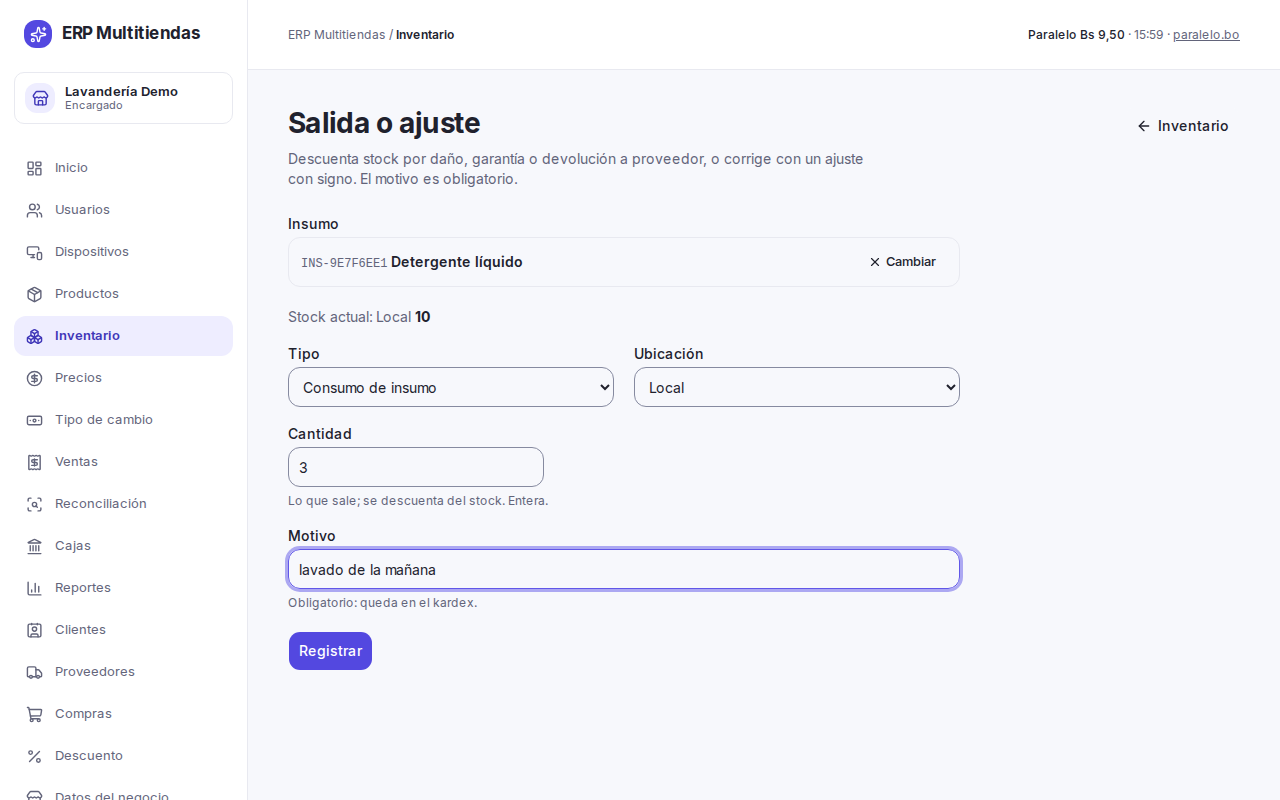
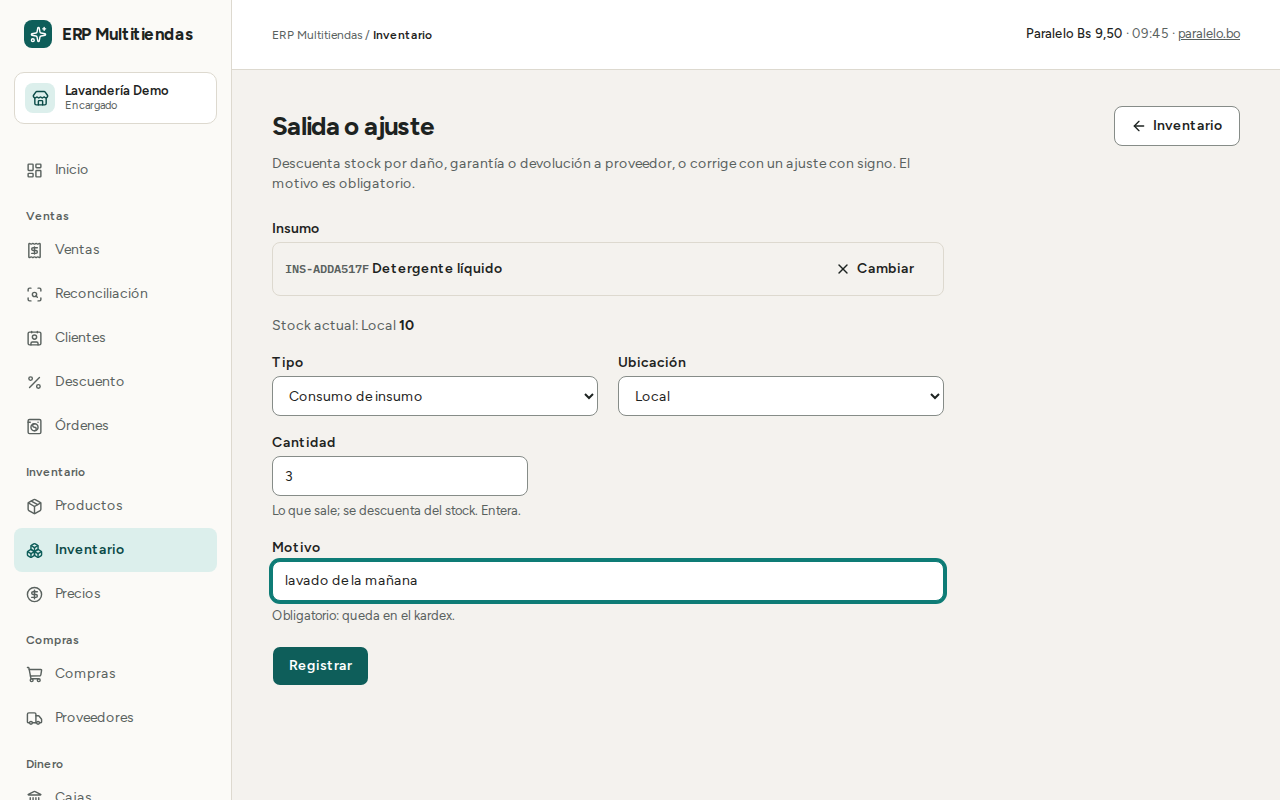
docs(manual): el manual describe el tablero y el menú por grupos, con capturas nuevas (R5)
El Inicio ya no es una lista de accesos: el manual de encargado y dueño lo
explica bloque por bloque (acciones, ventas de hoy, por atender, cajas abiertas,
créditos y pagos, stock bajo, más vendidos, lotes por vencer y órdenes listas) y
suma el menú lateral por grupos; el del contador y la guía de capacitación se
ajustan a lo mismo. Las 25 capturas se regeneraron con la interfaz nueva contra
la base local del seed y se agrega la del tablero de la lavandería. El script de
capturas usa ventanas más altas donde el contenido salía cortado. La regla del
aviso de ventas por revisar en decisiones-manual.md se actualiza: el detalle ya
no trae vendedor y motivo.

diff --git a/web/tests/manual/capturas.spec.ts b/web/tests/manual/capturas.spec.ts
@@ -34,6 +34,15 @@ const foto = async (page: Page, nombre: string) => {
   await page.waitForTimeout(400); // deja terminar transiciones y que se oculte algún aviso
   await page.screenshot({ path: `${IMG}/${nombre}.png`, fullPage: false });
 };
+// El tablero del Inicio es largo: ventana alta para verlo entero (el menú lateral mide el alto de la ventana) y con
+// las cargas ya resueltas.
+async function fotoTablero(page: Page, nombre: string) {
+  await page.setViewportSize({ width: 1280, height: 1250 });
+  await ir(page, "/panel");
+  await expect(page.getByRole("heading", { name: "Por atender" })).toBeVisible();
+  await expect(page.locator(".animate-pulse")).toHaveCount(0); // ningún bloque a medio cargar
+  await foto(page, nombre);
+}
 
 test.describe.configure({ mode: "serial" });
 test.beforeEach(async ({ page }) => {
@@ -291,7 +300,7 @@ test.describe("crédito y cuotas (encargado de tienda)", () => {
     });
   });
 
-  test("pos-credito y pos-cobro-cuota", async ({ page }) => {
+  test("pos-credito, pos-cobro-cuota y panel-inicio", async ({ page }) => {
     const tablet = await crearProductoConPrecio({
       contado: 50,
       credito: 60,
@@ -310,7 +319,10 @@ test.describe("crédito y cuotas (encargado de tienda)", () => {
     await page.getByLabel("Cédula de identidad").check();
     await page.getByLabel("Pagaré firmado").check();
     await expect(page.getByLabel("Plan de cuotas")).toContainText("Cuota 1:");
+    // Ventana alta: el plan de cuotas queda debajo de los documentos y no debe salir cortado.
+    await page.setViewportSize({ width: 1280, height: 1000 });
     await foto(page, "pos-credito");
+    await page.setViewportSize({ width: 1280, height: 800 });
 
     await abrirCobro(page);
     await page
@@ -333,6 +345,8 @@ test.describe("crédito y cuotas (encargado de tienda)", () => {
       .getByRole("button", { name: "Confirmar cobro" })
       .click();
     await expect(page.getByRole("status").filter({ hasText: "Cuota cobrada" })).toBeVisible();
+    // Inicio del panel con la caja C2 abierta, la venta sin conexión por revisar y la reserva del POS.
+    await fotoTablero(page, "panel-inicio");
   });
 });
 
@@ -351,7 +365,7 @@ test.describe("lavandería (encargado)", () => {
     for (const id of creadas) await anularOrdenApi(id);
   });
 
-  test("lav-nueva-orden y lav-ordenes", async ({ page }) => {
+  test("lav-nueva-orden, lav-ordenes y panel-inicio-lavanderia", async ({ page, context }) => {
     await fijarEquipoL1(page, equipoId);
     await page.goto("/pos");
     await page.getByLabel("Efectivo inicial (Bs)").fill("100");
@@ -388,6 +402,15 @@ test.describe("lavandería (encargado)", () => {
     await primera.getByRole("button", { name: /^Pasar a En lavado/ }).click();
     await expect(primera).toContainText("En lavado");
     await foto(page, "lav-ordenes");
+
+    // Una orden lista para recoger, para que el tablero de la lavandería muestre algo.
+    for (const estado of ["en_lavado", "lista"])
+      await apiComo("encargadoLavanderia", "rpc/cambiar_estado_orden", {
+        metodo: "POST",
+        cuerpo: { p_orden_id: creadas[0], p_estado: estado },
+      });
+    await elegirNegocio(context, NEGOCIOS.lavanderia.id);
+    await fotoTablero(page, "panel-inicio-lavanderia");
   });
 });
 
@@ -437,11 +460,6 @@ test.describe("panel (dueño)", () => {
   test.use({ storageState: rutaAuth("dueno") });
   test.beforeEach(async ({ context }) => {
     await elegirNegocio(context, NEGOCIOS.tienda.id);
-  });
-
-  test("panel-inicio", async ({ page }) => {
-    await ir(page, "/panel");
-    await foto(page, "panel-inicio");
   });
 
   test("panel-precios", async ({ page }) => {
@@ -519,6 +537,7 @@ test.describe("panel (dueño)", () => {
   });
 
   test("panel-usuarios", async ({ page }) => {
+    await page.setViewportSize({ width: 1280, height: 1000 }); // que se vea también "Cuenta nueva" completa
     await ir(page, "/panel/usuarios");
     await foto(page, "panel-usuarios");
   });

diff --git a/docs/manual/encargado-y-dueno.md b/docs/manual/encargado-y-dueno.md
@@ -35,13 +35,61 @@ Para salir, pulsar "Cerrar sesión". Hace falta conexión a internet. Al lado es
 
 ## 3. Inicio
 
-El Inicio muestra el nombre del negocio, su rol y un acceso a cada pantalla que usted puede usar. Si no ve una pantalla, es
-porque su rol no tiene el permiso.
+El Inicio es un tablero: muestra de un vistazo cómo va el día del negocio y qué falta atender. Arriba están la fecha de hoy,
+el nombre del negocio y su rol. Cada persona ve solo los bloques que su rol puede usar (ver "Qué ve cada persona", abajo).
 
-![Inicio del panel con los accesos del negocio](img/panel-inicio.png)
+![Inicio del panel de la tienda con el tablero](img/panel-inicio.png)
 
-Quien puede ver reportes (dueño, encargado y contador) ve en el Inicio un aviso como "3 ventas por revisar" o "1 movimiento de caja por
-revisar". Pulsarlo lleva a "Reconciliación" (sección 10).
+Los bloques, de arriba hacia abajo:
+
+- **Acciones frecuentes.** Botones para lo que más se hace: "Abrir punto de venta", "Nueva compra", "Entrada de inventario" y
+  "Ver reportes". Cada uno aparece solo si su rol puede hacer eso.
+- **"Ventas de hoy".** El total vendido hoy, "Ayer, día completo" para comparar, la cantidad de ventas y un gráfico de los
+  últimos 7 días (el día de hoy es la barra marcada "Hoy"). "Utilidad de hoy" aparece solo para quien ve costos, y solo si el
+  sistema conoce el costo de lo vendido. "Ver ventas" lleva a "Ventas".
+- **"Por atender".** Lo que espera una decisión suya. Cada aviso tiene una línea de detalle y un botón que lleva a resolverlo:
+  - "N ventas por revisar" o "N movimientos de caja por revisar" (botones "Reconciliar" y "Revisar"; ver "Reconciliación",
+    sección 10);
+  - "N lotes vencen en 7 días o menos" en el frial (botón "Ver lotes"; ver "Vencimientos", sección 7);
+  - "N órdenes sin recoger" en la lavandería, las listas hace más de 30 días (botón "Ver órdenes").
+
+  Si hay más de uno del mismo tipo, la línea de detalle muestra el primero y agrega "y N más".
+
+  Si no hay nada, dice "Nada por atender". Si el sistema no puede comprobar algo, lo dice ("No se pudo comprobar…") y el
+  botón "Abrir" lleva a esa pantalla para mirarlo ahí. Cuando hay algo por atender, el bloque se ve en color ámbar.
+- **"Cajas abiertas".** Las cajas que están abiertas ahora: "Equipo", "Cajero", "Desde" (la hora de apertura) y "Cobrado en
+  ventas". Si no hay ninguna, dice "No hay cajas abiertas ahora." "Ver cajas" lleva a "Cajas".
+- **"Créditos y pagos".** "Cuotas vencidas" (cuántos créditos y clientes, y cuánto suman; el monto sale en rojo),
+  "Reservas activas" (cuántas, con el total de anticipos) y "Por pagar a proveedores" (cuánto se debe y a cuántos proveedores).
+  Cada línea dice "Sin cuotas vencidas", "Sin reservas activas" o "Sin deudas con proveedores" cuando no hay nada. En la lavandería no hay créditos ni reservas: el bloque
+  se llama "Pagos a proveedores".
+- **"Stock bajo".** Los productos que tienen menos que su mínimo: "Producto", "Hay" y "Mínimo". Si ninguno lo está, dice
+  "Ningún producto está bajo su mínimo."
+- **"Más vendidos de la semana".** Los 5 productos que más se vendieron en los últimos 7 días. Si no hubo ventas, dice "Sin ventas
+  en los últimos 7 días." No aparece en la lavandería.
+- **"Lotes por vencer"** (solo el frial). Los lotes que vencen en los próximos 7 días, con su producto y su fecha. Un lote ya
+  vencido sale en rojo.
+- **"Órdenes listas"** (solo la lavandería). "Listas para recoger" (ropa terminada que el cliente aún no retira) y "Sin
+  recoger hace más de 30 días" ("Conviene avisar al cliente"; si hay alguna, el número sale en rojo).
+
+![Inicio del panel de la lavandería: órdenes listas, cajas abiertas y pagos a proveedores](img/panel-inicio-lavanderia.png)
+
+Un bloque que no puede cargarse muestra su propio aviso de error y no impide ver los demás.
+
+### El menú lateral
+
+A la izquierda están las pantallas, en cinco grupos. "Inicio" va suelto, arriba de todos. Si no ve una pantalla, es porque su
+rol no tiene el permiso. En el celular el menú se abre con el botón de menú (tres rayas).
+
+| Grupo | Pantallas |
+|---|---|
+| Ventas | "Ventas", "Reconciliación", "Clientes", "Descuento" y, en lavandería, "Órdenes" |
+| Inventario | "Productos", "Inventario", "Precios" |
+| Compras | "Compras", "Proveedores" |
+| Dinero | "Cajas", "Créditos" (tienda y frial), "Tipo de cambio", "Reportes" |
+| Configuración | "Usuarios", "Dispositivos", "Datos del negocio" |
+
+Más abajo del menú están "Punto de venta", "Cambiar contraseña" y "Cerrar sesión".
 
 ### Qué ve cada persona
 
@@ -66,7 +114,7 @@ dueño. El vendedor y el empleado no entran al panel: trabajan en el punto de ve
 ## 4. Productos
 
 Para ver el catálogo: "Productos". Se busca escribiendo o escaneando un código de barras; la búsqueda no distingue tildes ("cafe" encuentra "café"). Los filtros son "Categoría", "Marca",
-"Sin precio" e "Incluir inactivos". "Quitar filtros" los limpia.
+"Sin precio" e "Incluir inactivos". "Quitar filtros" los limpia. Un producto sin precio en alguna lista lleva una etiqueta ámbar ("Sin precio").
 
 ### Crear un producto
 
@@ -75,7 +123,7 @@ Para ver el catálogo: "Productos". Se busca escribiendo o escaneando un código
    "Unidad" ("Unidad" o "Kilogramo").
 3. "Stock mínimo": cuando el stock baje de ese número, el producto sale en la lista de stock bajo. Si lo deja vacío, no avisa.
 4. "Garantía (meses)": número entero. Sale impresa en la nota de venta.
-5. Marcar "Controla número de serie" solo si cada unidad lleva su serie (por ejemplo, equipos).
+5. Marcar "Controla número de serie" solo si cada unidad lleva su serie (por ejemplo, equipos). Bajo ese campo, la pantalla explica: "Al vender, dar salida o trasladar, se elige el número de serie de cada unidad."
 6. En el frial, un producto por "Unidad" tiene el campo "Peso del paquete (kg)", para paquetes de peso fijo.
 7. Pulsar "Crear producto".
 
@@ -285,11 +333,11 @@ negativo y aparece en "Reconciliación" para que usted lo revise y lo corrija co
 "Estado" ("Completada" o "Anulada"), "Equipo", "Desde" y "Hasta". Entrar a una venta muestra su detalle: líneas, pagos y
 devoluciones.
 
-En la lista, una venta a crédito sale marcada "Crédito" y una venta que completó una reserva, "Reserva". En su detalle no hay
+En la lista, el estado de cada venta sale como una etiqueta de color ("Completada" en verde, "Anulada" en rojo). Una venta a crédito sale marcada "Crédito" y una venta que completó una reserva, "Reserva". En su detalle no hay
 "Anular venta" ni "Devolver": aparece una explicación (la inicial, las cuotas o el anticipo ya quedaron registrados) y, en
 las de crédito, el enlace "Ver pagos del crédito" (si su rol ve "Créditos").
 
-![Detalle de una venta con los botones Anular venta y Devolver](img/panel-venta-detalle.png)
+![Detalle de una venta ya cerrada: la pantalla explica que no se puede anular y que hay que usar una devolución](img/panel-venta-detalle.png)
 
 Quien vende en el punto de venta (vendedor o empleado) no anula ni devuelve, ni siquiera dentro de las primeras 24 horas. Si
 hace falta, lo hace usted o el encargado. Un cambio de esto exige crear un permiso aparte.
@@ -372,7 +420,7 @@ Cómo leerla:
   anulada sale del esperado.
 - "Contado" y "Diferencia" aparecen cuando el cajero cierra la caja. El cajero hace un arqueo ciego: no ve el esperado
   mientras la caja está abierta. En el panel, el esperado de una caja abierta es el de ese momento.
-- La diferencia sale como "Sin diferencia", "Sobrante" o "Faltante".
+- La diferencia sale como "Sin diferencia", "Sobrante" o "Faltante". En la lista de cajas, la diferencia sale en rojo si falta dinero y en ámbar si sobra.
 - Ver el esperado y el desglose exige poder ver reportes (dueño, encargado y contador).
 - Cerrar la caja es definitivo: no se edita.
 
@@ -720,7 +768,7 @@ lavandería que también trabajan en la tienda se asignan a ambos negocios; es u
 
 ### Datos del negocio
 
-"Datos del negocio" (en el Inicio y en el menú) guarda lo que sale impreso en la nota de venta y en la boleta de lavandería.
+"Datos del negocio" (en el menú, grupo "Configuración") guarda lo que sale impreso en la nota de venta y en la boleta de lavandería.
 Cada negocio tiene los suyos; mire cuál es el negocio activo antes de guardar.
 
 1. Escribir el "NIT" (hasta 20 caracteres, en una sola línea).

diff --git a/docs/capacitacion.md b/docs/capacitacion.md
@@ -131,6 +131,10 @@ cobrar, confirmar con el cliente.
 
 ## Encargado y dueño: panel
 
+El Inicio del panel es un tablero: "Ventas de hoy", "Por atender" (ventas y cajas por revisar, lotes por vencer, órdenes sin recoger),
+"Cajas abiertas", "Créditos y pagos", "Stock bajo" y "Más vendidos de la semana". Las pantallas están en el menú lateral, en cinco
+grupos: Ventas, Inventario, Compras, Dinero y Configuración ("Inicio" va suelto arriba). La tabla dice dónde está cada tarea.
+
 | Tarea | Dónde |
 |---|---|
 | Crear producto | "Productos", "Nuevo producto". Los precios van aparte |
@@ -147,7 +151,7 @@ cobrar, confirmar con el cliente.
 | Reportes | "Reportes": fechas, "Aplicar", "Descargar Excel". Costos y ganancia solo con permiso de costos |
 | Personal | "Usuarios": "Cuenta nueva" o "Agregar persona de otro negocio"; cambiar rol, "Desactivar", "Quitar", "Restablecer contraseña" por fila. A un encargado solo lo gestiona el dueño. Restablecer no cierra las sesiones abiertas |
 | Datos del negocio | "Datos del negocio" (dueño en tienda y frial): "NIT" y "Datos para la nota" (dirección, teléfono). Salen en la nota |
-| Cambiar la propia contraseña | "Cambiar contraseña" en la cabecera del panel o junto a "Cerrar sesión" en el punto de venta |
+| Cambiar la propia contraseña | "Cambiar contraseña", al pie del menú lateral del panel o junto a "Cerrar sesión" en el punto de venta |
 | Equipos de caja | "Dispositivos": nombre, prefijo (ej. C2) y ubicación |
 | Tope de descuento | "Descuento" |
 | Proveedores | "Proveedores": "Nuevo proveedor", editar, y "Registrar pago a …" (medio y "Monto en Bs"; no puede superar la deuda). El pago no pasa por la caja del POS: si sale del cajón, anotar además un gasto en la caja |

diff --git a/docs/decisiones-manual.md b/docs/decisiones-manual.md
@@ -352,7 +352,9 @@ de la preentrega (`PP`, `AUDP`): las reglas que cambiaron se corrigieron y las n
 - **Un QR confirmado en el mostrador (anticipo de reserva, cuota de crédito, venta en línea) no se puede marcar rechazado
   después;** solo el QR pendiente de una venta sin conexión tiene camino de rechazo. _Vigente / pendiente de decisión CTO_ ·
   H:28; PF-7:79, 106-107
-- **El Inicio del panel avisa "N ventas por revisar"** a quien las revisa, con vendedor y motivo. _Vigente_ · AUD:28, 88
+- **El Inicio del panel avisa "N ventas por revisar"** a quien las revisa, dentro del bloque "Por atender", con el
+  número y el total de la primera venta y un botón "Reconciliar". El vendedor y el motivo se ven en "Reconciliación".
+  _Vigente; cambió con el tablero del rediseño (2026-11-11): antes el aviso traía vendedor y motivo_ · AUD:28, 88
 - **Una venta sin motivos y sin QR pendiente no entra a revisión.** _Vigente_ · PF-3:57
 
 ## 8. Catálogo, precios y dólar

diff --git a/docs/manual/contador.md b/docs/manual/contador.md
@@ -21,7 +21,11 @@ conexión a internet).
 
 ## 2. Qué ve el contador
 
-El contador ve costos y reportes. En el Inicio aparece un acceso a cada pantalla que su rol puede mirar:
+El contador ve costos y reportes. El Inicio es un tablero con el día del negocio: el botón "Ver reportes", "Ventas de hoy"
+(con "Utilidad de hoy" si hay costos cargados), "Por atender" (ventas y movimientos de caja por revisar, y los lotes por vencer
+o las órdenes sin recoger según el negocio), "Cajas abiertas", "Créditos y pagos" (solo las cuotas vencidas), "Stock bajo" y
+"Más vendidos de la semana". Los botones de "Por atender" llevan a "Reconciliación" (sección 6), donde sí puede revisar. Las
+pantallas que su rol puede mirar están en el menú de la izquierda, agrupadas en "Ventas", "Inventario" y "Dinero":
 
 | Pantalla | Qué puede hacer |
 |---|---|
